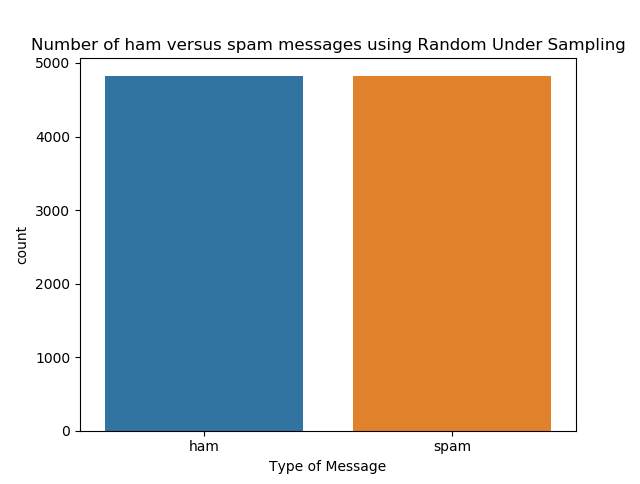
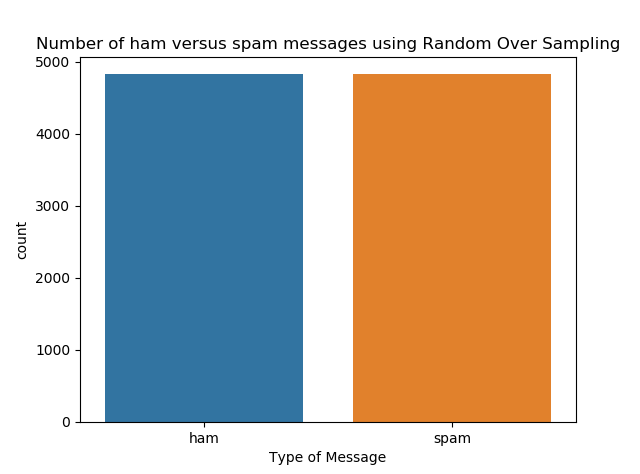
graphs updated

diff --git a/ICP_12/OverSampling.py b/ICP_12/OverSampling.py
@@ -58,7 +58,7 @@ dfOver = pd.concat([dataHam, hamOver], axis=0)
 # Visualization of data distribution using over sampling
 sns.countplot(dfOver.v1)
 plt.xlabel('Type of Message')
-plt.title("Number of ham versus spam messages using Random Under Sampling")
+plt.title("Number of ham versus spam messages using Random Over Sampling")
 print("No. of spam messages resulting from over sampling: ", len(dfOver[dfOver['v1'] == 'spam']))
 print("No. of ham messages resulting from over sampling: ", len(dfOver[dfOver['v1'] == 'ham']))
 
